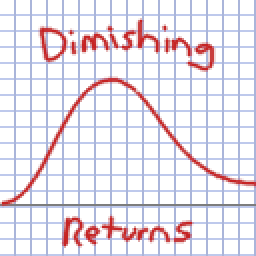
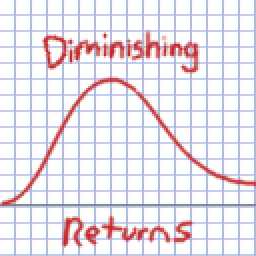
fixed config option for moon discount not showing

diff --git a/DiminishingReturns/config/DRConfig.cs b/DiminishingReturns/config/DRConfig.cs
@@ -45,7 +45,7 @@ class DRConfig
 
         moonDiscount = cfg.Bind(
             "General",
-            "BonusChance",
+            "MoonDiscount",
             0.5f,
             "A discount applied to the price of moons, to make up for diminishment.");
 

diff --git a/CHANGELOG.md b/CHANGELOG.md
@@ -1,5 +1,16 @@
 # Changelog
 
+## 1.0.4 (2024-08-23)
+
+### Bug Fixes
+* Fixed broken config option to change discount for moons.
+
+## 1.0.3 (2024-08-21) ???
+
+### Oops
+* Changed icon to correct spelling of "dimining" to "diminishing".
+* No change to the mod.
+
 ## 1.0.2 (2024-08-21)
 
 ### Features
